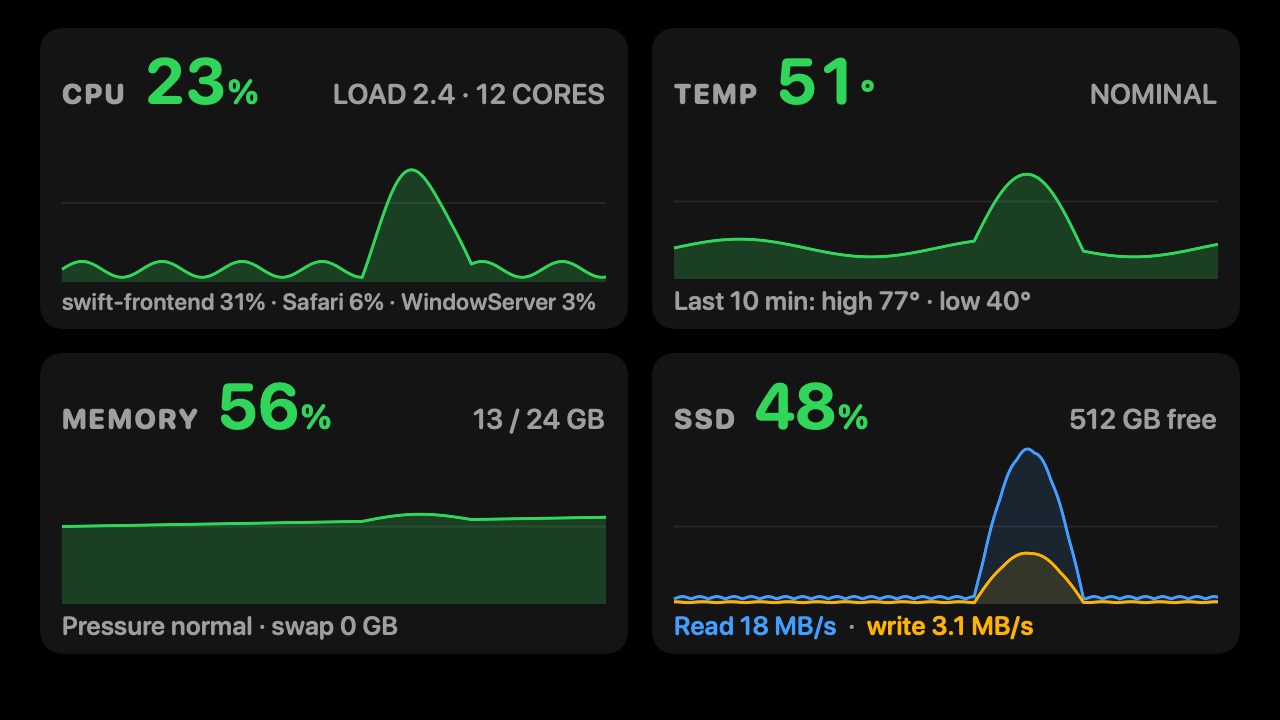
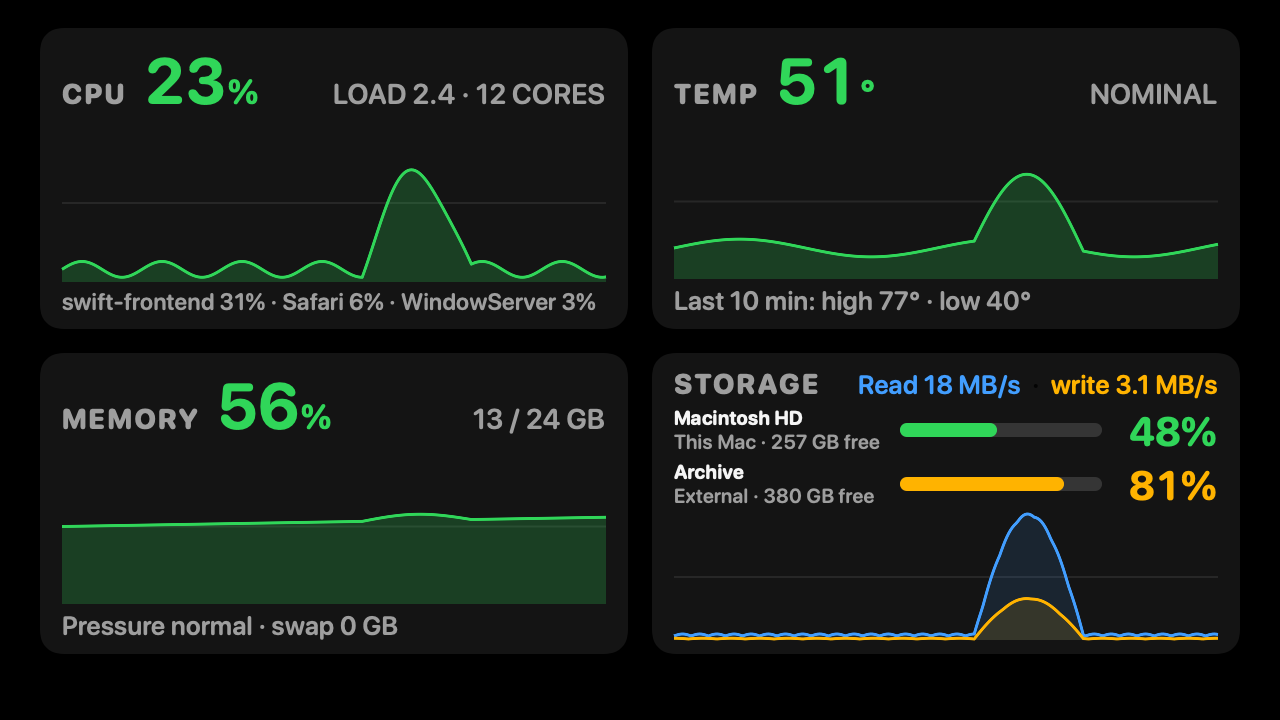
Storage instead of SSD: every volume, the Mac's own and attached
The clock page's meter shows how full the fullest volume is, over a thin bar per
volume, so how many drives there are and which is filling shows too. The system
page lists each volume Finder shows (the startup disk, other internal ones, then
attached drives; no disk images, network or hidden volumes) with how full it is and
what is free, above the disk throughput graph. Volumes are read once a minute and
whenever one is mounted or ejected.

Changed region(s): [[0.5, 0.5194, 0.9688, 0.9167]]

diff --git a/Sources/deskdash/SystemStats.swift b/Sources/deskdash/SystemStats.swift
@@ -1,4 +1,6 @@
+import AppKit
 import Darwin
+import DiskArbitration
 import Foundation
 import IOKit
 
@@ -15,11 +17,10 @@ struct SystemStats: Equatable, Sendable {
     var memoryUsed: Double  // bytes in active, wired and compressed pages
     var memoryTotal: Double
     var pressure: Pressure
-    var diskUsed: Double?  // share of the startup disk in use, 0...1, with purgeable space counted as free
+    var volumes: [VolumeUsage] = []  // the Mac's own volumes and the attached ones, the startup disk first
     var download: Double?  // bytes a second over the Ethernet and Wi-Fi interfaces
     var upload: Double?
     // For the system page:
-    var diskFree: Double? = nil  // bytes free on the startup disk, as Finder counts them
     var diskRead: Double? = nil  // bytes a second read from and written to the Mac's disks
     var diskWrite: Double? = nil
     var swapUsed: Double = 0  // bytes of swap in use
@@ -27,10 +28,29 @@ struct SystemStats: Equatable, Sendable {
 
     var memory: Double { memoryTotal > 0 ? memoryUsed / memoryTotal : 0 }
 
+    /// The volume closest to full: what the clock page's one storage meter shows.
+    var fullest: VolumeUsage? { volumes.max { $0.used < $1.used } }
+
     static let demo = SystemStats(cpu: 0.23, temperature: 51, thermal: .nominal, memoryUsed: 13.4 * 1_073_741_824,
-                                  memoryTotal: 24 * 1_073_741_824, pressure: .normal, diskUsed: 0.48,
-                                  download: 1_240_000, upload: 310_000, diskFree: 512_000_000_000,
+                                  memoryTotal: 24 * 1_073_741_824, pressure: .normal,
+                                  volumes: [VolumeUsage(name: "Macintosh HD", path: "/", isInternal: true,
+                                                        total: 494_000_000_000, free: 257_000_000_000),
+                                            VolumeUsage(name: "Archive", path: "/Volumes/Archive", isInternal: false,
+                                                        total: 2_000_000_000_000, free: 380_000_000_000)],
+                                  download: 1_240_000, upload: 310_000,
                                   diskRead: 18_400_000, diskWrite: 3_100_000, swapUsed: 0, load: 2.4)
+}
+
+/// One volume's space: free as Finder counts it, purgeable files included.
+struct VolumeUsage: Equatable, Sendable, Identifiable {
+    let name: String
+    let path: String
+    let isInternal: Bool  // the Mac's own, rather than attached
+    let total: Double  // bytes
+    let free: Double
+
+    var used: Double { total > 0 ? min(1, max(0, 1 - free / total)) : 0 }
+    var id: String { path }
 }
 
 /// The last 10 minutes of the Mac's load, a sample every 2 s, for the system page's graphs.
@@ -139,8 +159,9 @@ final class SystemStatsService {
     private var cpuTicks: [UInt32]?
     private var netBytes: [String: (rx: UInt64, tx: UInt64)] = [:]
     private var netSampled: TimeInterval?
-    private var diskUsed: Double?
-    private var diskFree: Double?
+    private var volumes: [VolumeUsage] = []
+    private var volumesTask: Task<Void, Never>?
+    private var mountObservers: [NSObjectProtocol] = []
     private var diskBytes: (read: UInt64, write: UInt64)?
     private let processes = ProcessSampler()
     private var processesBusy = false
@@ -170,10 +191,18 @@ final class SystemStatsService {
         _ = read()  // a baseline, so the first sample on the tick already has rates
         diskTask = Task {
             while !Task.isCancelled {
-                let disk = await Task.detached(priority: .utility) { Self.readDisk() }.value
-                diskUsed = disk?.used
-                diskFree = disk?.free
+                readVolumesNow()
                 try? await Task.sleep(for: .seconds(60))
+            }
+        }
+        // A drive plugged in or ejected shows at once rather than at the next minute.
+        if mountObservers.isEmpty {
+            let center = NSWorkspace.shared.notificationCenter
+            for name in [NSWorkspace.didMountNotification, NSWorkspace.didUnmountNotification,
+                         NSWorkspace.didRenameVolumeNotification] {
+                mountObservers.append(center.addObserver(forName: name, object: nil, queue: .main) { [weak self] _ in
+                    MainActor.assumeIsolated { self?.readVolumesNow() }
+                })
             }
         }
         temperatureTask = Task {
@@ -207,9 +236,7 @@ final class SystemStatsService {
     func prime() async {
         apply(dash.config.stats)
         guard enabled else { return }
-        let disk = Self.readDisk()
-        diskUsed = disk?.used
-        diskFree = disk?.free
+        volumes = Self.readVolumes()
         temperature = CPUTemperature.shared?.read()
         try? await Task.sleep(for: .seconds(1))
         sample()
@@ -266,8 +293,8 @@ final class SystemStatsService {
         return SystemStats(cpu: cpu, temperature: temperature, thermal: ProcessInfo.processInfo.thermalState,
                            memoryUsed: Double(pages) * pageSize,
                            memoryTotal: Double(ProcessInfo.processInfo.physicalMemory),
-                           pressure: SystemStats.Pressure(rawValue: level) ?? .normal, diskUsed: diskUsed,
-                           download: download, upload: upload, diskFree: diskFree, diskRead: diskRead,
+                           pressure: SystemStats.Pressure(rawValue: level) ?? .normal, volumes: volumes,
+                           download: download, upload: upload, diskRead: diskRead,
                            diskWrite: diskWrite, swapUsed: Double(swap.xsu_used), load: loads[0])
     }
 
@@ -329,14 +356,38 @@ final class SystemStatsService {
         return out
     }
 
-    /// Free space as Finder counts it, purgeable files included, which is why it goes through CacheDelete.
-    nonisolated private static func readDisk() -> (used: Double, free: Double)? {
-        guard let values = try? URL(fileURLWithPath: "/").resourceValues(
-                  forKeys: [.volumeTotalCapacityKey, .volumeAvailableCapacityForImportantUsageKey]),
-              let total = values.volumeTotalCapacity, total > 0,
-              let free = values.volumeAvailableCapacityForImportantUsage
-        else { return nil }
-        return (min(1, max(0, 1 - Double(free) / Double(total))), Double(free))
+    private func readVolumesNow() {
+        guard enabled, volumesTask == nil else { return }
+        volumesTask = Task {
+            volumes = await Task.detached(priority: .utility) { Self.readVolumes() }.value
+            volumesTask = nil
+        }
+    }
+
+    /// The volumes Finder shows: local, browsable, not hidden (Recovery, Preboot) and not disk images; the startup
+    /// disk first, then the Mac's own, then attached ones, by name. Free space as Finder counts it, purgeable files
+    /// included, which goes through CacheDelete (6-40 ms a volume), so it runs once a minute, off the main thread, and
+    /// when a volume is mounted or ejected.
+    nonisolated private static func readVolumes() -> [VolumeUsage] {
+        let keys: [URLResourceKey] = [.volumeLocalizedNameKey, .volumeIsInternalKey, .volumeIsLocalKey, .volumeIsBrowsableKey,
+                                      .volumeTotalCapacityKey, .volumeAvailableCapacityForImportantUsageKey,
+                                      .volumeAvailableCapacityKey]
+        let session = DASessionCreate(kCFAllocatorDefault)
+        var out: [VolumeUsage] = []
+        for url in FileManager.default.mountedVolumeURLs(includingResourceValuesForKeys: keys, options: [.skipHiddenVolumes]) ?? [] {
+            guard let v = try? url.resourceValues(forKeys: Set(keys)), v.volumeIsLocal == true, v.volumeIsBrowsable != false,
+                  let total = v.volumeTotalCapacity, total > 0
+            else { continue }
+            if let session, let disk = DADiskCreateFromVolumePath(kCFAllocatorDefault, session, url as CFURL),
+               let description = DADiskCopyDescription(disk) as? [String: Any],
+               let kind = description[kDADiskDescriptionDeviceProtocolKey as String] as? String,
+               kind == "Disk Image" || kind == "Virtual Interface" { continue }
+            let free = v.volumeAvailableCapacityForImportantUsage.map(Double.init) ?? Double(v.volumeAvailableCapacity ?? 0)
+            out.append(VolumeUsage(name: v.volumeLocalizedName ?? url.lastPathComponent, path: url.path,
+                                   isInternal: v.volumeIsInternal ?? (url.path == "/"), total: Double(total), free: free))
+        }
+        func rank(_ v: VolumeUsage) -> Int { v.path == "/" ? 0 : v.isInternal ? 1 : 2 }
+        return out.sorted { (rank($0), $0.name) < (rank($1), $1.name) }
     }
 
     /// Bytes read and written since boot by every disk (the IOBlockStorageDriver statistics Activity Monitor's Disk tab

diff --git a/Sources/deskdash/Views.swift b/Sources/deskdash/Views.swift
@@ -249,7 +249,7 @@ struct StatsRow: View {
 
     var body: some View {
         let cpu = stats.cpu.map { ($0 * 100).rounded() / 100 }  // the color follows the number shown
-        let disk = stats.diskUsed.map { ($0 * 100).rounded() / 100 }
+        let disk = stats.fullest.map { ($0.used * 100).rounded() / 100 }  // the volume closest to full
         HStack(alignment: .center, spacing: 0) {
             StatMeter(label: "CPU", value: cpu.map(Fmt.wholePercent), unit: "%", fraction: cpu,
                       color: Theme.quality(cpu, fair: 0.7, poor: 0.9))
@@ -262,8 +262,7 @@ struct StatsRow: View {
             StatMeter(label: "RAM", value: Fmt.gigabytes(stats.memoryUsed), unit: "GB", fraction: stats.memory,
                       color: Theme.color(stats.pressure))
             Spacer(minLength: 20)
-            StatMeter(label: "SSD", value: disk.map(Fmt.wholePercent), unit: "%", fraction: disk,
-                      color: Theme.quality(disk, fair: 0.8, poor: 0.9))
+            StorageMeter(volumes: stats.volumes, fullest: disk)
             Spacer(minLength: 20)
             NetworkRates(download: stats.download, upload: stats.upload)
         }
@@ -1027,16 +1026,7 @@ struct SystemPage: View {
                             footer: Text(L10n.f("Pressure %@ · swap %@", L10n.t(Self.pressure(s.pressure)), Fmt.size(s.swapUsed)))) {
                     StatChart(series: [h.memory], range: 0...1, colors: [Theme.color(s.pressure)])
                 }
-                SystemPanel(label: "SSD", value: s.diskUsed.map(Fmt.wholePercent) ?? "–", unit: "%",
-                            color: Theme.quality(s.diskUsed.map { $0 * 100 }, fair: 80, poor: 90),
-                            info: s.diskFree.map { L10n.f("%@ free", Fmt.size($0)) } ?? "",
-                            // The words in their lines' colors, as the graph's legend.
-                            footer: SystemPage.legend(L10n.f("Read %@", Fmt.rate(s.diskRead ?? 0)),
-                                                      L10n.f("write %@", Fmt.rate(s.diskWrite ?? 0)))) {
-                    // Throughput, which moves, rather than space used, which hardly does. Read in blue, write in amber.
-                    let peak = max(4_000_000, (h.diskRead + h.diskWrite).compactMap { $0 }.max() ?? 0)
-                    StatChart(series: [h.diskRead, h.diskWrite], range: 0...peak, colors: [Theme.working, Theme.waiting])
-                }
+                StoragePanel(volumes: s.volumes, history: h, read: s.diskRead, write: s.diskWrite)
             }
         }
         .padding(.horizontal, 40)
@@ -1065,6 +1055,127 @@ struct SystemPage: View {
         case .warning: "warning"
         case .critical: "critical"
         }
+    }
+}
+
+/// The clock page's storage meter: the fullest volume's figure, as the other meters show theirs, over a thin bar per
+/// volume (up to four), each in its own fullness's color, so how many drives there are, and which is filling, shows too.
+struct StorageMeter: View {
+    let volumes: [VolumeUsage]
+    let fullest: Double?
+
+    var body: some View {
+        let color = Theme.quality(fullest, fair: 0.8, poor: 0.9)
+        let bars = Array(volumes.prefix(4))
+        VStack(alignment: .leading, spacing: 10) {
+            HStack(alignment: .firstTextBaseline, spacing: 0) {
+                Text(L10n.t("STORAGE"))
+                    .font(Theme.font(28, .heavy))
+                    .tracking(2)
+                    .foregroundStyle(Theme.secondary)
+                    .fixedSize()
+                Spacer(minLength: 8)
+                Text(fullest.map(Fmt.wholePercent) ?? "–")
+                    .font(Theme.font(46, .bold))
+                    .monospacedDigit()
+                    .foregroundStyle(fullest == nil ? Theme.faint : color)
+                if fullest != nil {
+                    Text("%").font(Theme.font(30, .bold)).foregroundStyle(color).padding(.leading, 2)
+                }
+            }
+            .lineLimit(1)
+            .minimumScaleFactor(0.7)
+            GeometryReader { geo in
+                let gap: CGFloat = 4
+                let height = max(4, (geo.size.height - gap * CGFloat(max(0, bars.count - 1))) / CGFloat(max(1, bars.count)))
+                VStack(spacing: gap) {
+                    ForEach(bars) { v in
+                        let c = Theme.quality(v.used, fair: 0.8, poor: 0.9)
+                        ZStack(alignment: .leading) {
+                            RoundedRectangle(cornerRadius: min(4, height / 2)).fill(Color.white.opacity(0.12))
+                            RoundedRectangle(cornerRadius: min(4, height / 2)).fill(c)
+                                .frame(width: max(height, geo.size.width * v.used))
+                        }
+                        .frame(height: height)
+                    }
+                }
+            }
+            .frame(height: 26)
+        }
+        .frame(width: 205)
+    }
+}
+
+/// The system page's storage: a row per volume, the Mac's own and attached ones, each with how full it is in the meter
+/// colors and what is free, and under them every disk's reads and writes over the 10 minutes, which move where space
+/// used hardly does. Three rows fit: with more, the startup disk and the fullest of the rest show, and a count of the others.
+struct StoragePanel: View {
+    let volumes: [VolumeUsage]
+    let history: SystemHistory
+    let read: Double?
+    let write: Double?
+
+    var body: some View {
+        let shown = Self.pick(volumes)
+        let others = volumes.count - shown.count
+        VStack(alignment: .leading, spacing: 6) {
+            HStack(alignment: .firstTextBaseline) {
+                TokenCaption(text: L10n.t("STORAGE") + (others > 0 ? "  " + L10n.more(others) : ""))
+                Spacer(minLength: 12)
+                // The words in their lines' colors, as the graph's legend.
+                SystemPage.legend(L10n.f("Read %@", Fmt.rate(read ?? 0)), L10n.f("write %@", Fmt.rate(write ?? 0)))
+                    .font(Theme.font(26, .semibold))
+            }
+            ForEach(shown) { VolumeRow(volume: $0) }
+            let peak = max(4_000_000, (history.diskRead + history.diskWrite).compactMap { $0 }.max() ?? 0)
+            StatChart(series: [history.diskRead, history.diskWrite], range: 0...peak, colors: [Theme.working, Theme.waiting])
+                .frame(minHeight: 24, maxHeight: .infinity)
+        }
+        .lineLimit(1)
+        .padding(.horizontal, 22)
+        .padding(.vertical, 14)
+        .frame(maxWidth: .infinity, maxHeight: .infinity)
+        .background(Color(white: 0.08), in: RoundedRectangle(cornerRadius: 22))
+    }
+
+    /// Up to three, in their usual order: the startup disk, then the fullest of the others.
+    private static func pick(_ volumes: [VolumeUsage]) -> [VolumeUsage] {
+        guard volumes.count > 3 else { return volumes }
+        let kept = Set([volumes[0].id] + volumes.dropFirst().sorted { $0.used > $1.used }.prefix(2).map(\.id))
+        return volumes.filter { kept.contains($0.id) }
+    }
+}
+
+struct VolumeRow: View {
+    let volume: VolumeUsage
+
+    var body: some View {
+        let color = Theme.quality(volume.used * 100, fair: 80, poor: 90)
+        HStack(alignment: .center, spacing: 16) {
+            VStack(alignment: .leading, spacing: 0) {
+                Text(volume.name)
+                    .font(Theme.font(28, .bold))
+                    .foregroundStyle(Theme.text)
+                Text(L10n.t(volume.isInternal ? "This Mac" : "External") + " · " + L10n.f("%@ free", Fmt.size(volume.free)))
+                    .font(Theme.font(22, .semibold))
+                    .foregroundStyle(Theme.secondary)
+            }
+            .minimumScaleFactor(0.7)
+            .frame(width: 210, alignment: .leading)
+            GeometryReader { geo in
+                ZStack(alignment: .leading) {
+                    Capsule().fill(Color.white.opacity(0.14))
+                    Capsule().fill(color).frame(width: max(geo.size.height, geo.size.width * volume.used))
+                }
+            }
+            .frame(height: 14)
+            Text(Fmt.wholePercent(volume.used) + "%")
+                .font(Theme.font(40, .bold))
+                .monospacedDigit()
+                .foregroundStyle(color)
+                .frame(width: 100, alignment: .trailing)
+        }
+        .frame(height: 48)
     }
 }
 

diff --git a/Sources/deskdash/L10n.swift b/Sources/deskdash/L10n.swift
@@ -80,7 +80,8 @@ enum L10n {
         "Pressure %@ · swap %@": "壓力 %@ · 置換 %@",
         "%@ free": "可用 %@",
         "Read %@": "讀 %@", "write %@": "寫 %@",
-        "System (CPU, temperature, memory and SSD over 10 minutes)": "系統（最近 10 分鐘的 CPU、溫度、記憶體與 SSD）",
+        "System (CPU, temperature, memory and storage over 10 minutes)": "系統（最近 10 分鐘的 CPU、溫度、記憶體與儲存空間）",
+        "STORAGE": "儲存空間", "This Mac": "本機", "External": "外接",
         // Settings
         "Whenever it is not sleep hours": "休眠時間以外都保持（跟著平日／假日的休眠時間）",
         "Sleep (Dock Screen Off)": "休眠（關閉擴充座螢幕）",

diff --git a/Sources/deskdash/Settings.swift b/Sources/deskdash/Settings.swift
@@ -205,7 +205,7 @@ private struct GeneralSettings: View {
          PageOption(id: "markets", title: L10n.t("Markets")), PageOption(id: "agents", title: L10n.t("Agents")),
          PageOption(id: "limits", title: L10n.t("Limits (what is left of the Claude and Codex plans)")),
          PageOption(id: "tokens", title: L10n.t("Tokens (what the coding agents used)")),
-         PageOption(id: "system", title: L10n.t("System (CPU, temperature, memory and SSD over 10 minutes)"))]
+         PageOption(id: "system", title: L10n.t("System (CPU, temperature, memory and storage over 10 minutes)"))]
     }
 
     var body: some View {

diff --git a/README.md b/README.md
@@ -30,7 +30,7 @@ Changes apply at once and are saved to `config.json`, writing only what differs 
   - **CPU**: amber from 70%, red from 90%.
   - **Temp**: the CPU cores' average temperature, a segment per 10 °C (see [System stats](#system-stats)). Colored by macOS's thermal pressure (green nominal, amber fair, red serious or critical) rather than by degrees, because Apple silicon runs its cores past 90 °C under load by design. It's in °F when the weather is. Macs without the sensors, such as Intel ones, leave it out.
   - **RAM**: colored by macOS's memory pressure (green normal, amber warning, red critical) rather than by how full it is, because macOS keeps memory full on purpose.
-  - **SSD**: space used, counting purgeable files as free the way Finder does. Amber from 80%, red from 90%.
+  - **Storage**: how full the fullest of the Mac's volumes is, its own and attached ones alike, over a thin bar per volume (up to four), each in its own fullness's color, so how many there are, and which is filling, shows too. Purgeable files count as free, the way Finder counts them. Amber from 80%, red from 90%.
   - **Network**: download and upload rates over Ethernet and Wi-Fi.
 
   While Music or Spotify plays, a line above them shows the cover, the title and artist, and a thin progress bar. With neither row showing, the time grows back to 360 pt.
@@ -51,7 +51,7 @@ Changes apply at once and are saved to `config.json`, writing only what differs 
 - **Limits**: how much is left of your Claude and Codex plans' usage limits, a column per agent and a row per window, the 5-hour one and the week, all at one size so the same window sits side by side. A window a plan does not have (Codex Pro has only the week) keeps its place, marked; a row no agent has is left out. Each bar has a white tick where an even pace would leave it, so a bar that reaches past its tick has room to spare. The figures stay white while there is room. They turn amber when the window would run out before it resets at the pace so far ("RUNS OUT THU 18:00") or has under 20% left, and red under 10%. Otherwise the line under the bar says when it resets. A report older than 30 minutes says how old. This page appears once either agent has reported its limits (see [How plan limits work](#how-plan-limits-work)).
 - **Tokens**: the tokens your coding agents used on this Mac: Claude Code, Codex, Gemini CLI and Muse Code. Today's count is large, with each agent's share under it, and the last 7 and 30 days, all time, and your streak of days with any use sit beside it. Underneath are the last 26 weeks as a GitHub-style heatmap: a column per week, a row per weekday from your calendar's first day of the week, and GitHub's shades of green, from none to the busiest quarter of your days. Today is outlined. While this page shows, the count catches up every 10 s. It appears once there is any use in those weeks (see [How token counting works](#how-token-counting-works)).
 
-- **System**: the Mac's load over the last 10 minutes, as Activity Monitor graphs it, in four panels. **CPU**, with the load average beside the core count and the three busiest processes (one name's processes together, as a browser's helpers). **Temperature**, with macOS's thermal state and the 10 minutes' high and low. **Memory**, with what is used of how much, the memory pressure, and swap. **SSD**, its space used and free, and a graph of its reads (blue) and writes (amber), which move where space used hardly does. Each figure takes the clock page's meter colors. A sample lands every 2 s; the graphs start empty when deskdash starts. The busiest processes come from libproc (proc_pid_rusage), only while the page shows, about 2 ms every 4 s; disk throughput from the I/O registry's block-storage statistics, as Activity Monitor's Disk tab reads them.
+- **System**: the Mac's load over the last 10 minutes, as Activity Monitor graphs it, in four panels. **CPU**, with the load average beside the core count and the three busiest processes (one name's processes together, as a browser's helpers). **Temperature**, with macOS's thermal state and the 10 minutes' high and low. **Memory**, with what is used of how much, the memory pressure, and swap. **Storage**, a row per volume as Finder shows them (the startup disk, the Mac's other volumes, then attached drives; disk images, network volumes and hidden ones like Recovery left out), each with how full it is and what is free, and under them a graph of every disk's reads (blue) and writes (amber), which move where space used hardly does. Three rows fit; with more, the startup disk and the fullest two show, with a count of the rest. Plugging a drive in or ejecting one shows at once. Each figure takes the clock page's meter colors. A sample lands every 2 s; the graphs start empty when deskdash starts. The busiest processes come from libproc (proc_pid_rusage), only while the page shows, about 2 ms every 4 s; disk throughput from the I/O registry's block-storage statistics, as Activity Monitor's Disk tab reads them.
 
 **Alerts.** When a session starts waiting on you, the display jumps to the agents page for 20 s, and an amber frame blinks around every page until nothing is waiting. When a session finishes, a green frame blinks for 6 s and the agents page shows for 10 s. Both jumps can be turned off in Settings → Agents. When a plan's 5-hour or weekly window drops under 20% left, the limits page shows for 20 s, once per window until it resets.
 

diff --git a/CLAUDE.md b/CLAUDE.md
@@ -27,7 +27,7 @@ A full-screen dashboard for the Wokyis dock's 5" 1280×720 screen: clock and wea
 - `L10n.swift`: the menus' and alerts' words in English and Traditional Chinese (`language`). Wrap new menu titles and alert text in `L10n.t`, and add the Chinese to its table.
 - `PhotoLibrary.swift`: the Photos app's albums, through PhotoKit, for `photos.album`. Only deskdash.app asks for the library; snapshots and other bare-binary commands never touch it.
 - `Photos.swift`: the photos page's pictures. `PhotosService` lists `photos.album` or `photos.folder` every 5 minutes and decodes the next picture (and its blurred backdrop) off the main thread while the page is away.
-- `SystemStats.swift`: CPU, temperature, memory, SSD, and network for the clock page, sampled on every other tick (`SystemStatsService.sample`), with disk throughput, swap and the load average for the system page, the last 10 minutes of them (`SystemHistory`), and, only while that page shows, the busiest processes (`ProcessSampler`, libproc). `CPUTemperature` reads the CPU cores' sensors from the SMC.
+- `SystemStats.swift`: CPU, temperature, memory, SSD, and network for the clock page, sampled on every other tick (`SystemStatsService.sample`), the volumes Finder shows (`VolumeUsage`, read once a minute and on mount or eject), with disk throughput, swap and the load average for the system page, the last 10 minutes of them (`SystemHistory`), and, only while that page shows, the busiest processes (`ProcessSampler`, libproc). `CPUTemperature` reads the CPU cores' sensors from the SMC.
 - `NowPlaying.swift`: Music's and Spotify's distributed notifications (`NowPlayingService`, published on the tick by `flush`), the playhead estimate, and cover lookups (`CoverLookup`). `deskdash music` prints what it hears. `scripts/fake-track.swift` posts a made-up announcement.
 - `Views.swift`: everything drawn, on a fixed 1280×720 canvas scaled to the window.
 - `MQTT.swift` (a minimal MQTT 3.1 client), `Dyson.swift` (the purifier service and its readings), `DysonSetup.swift` (connecting the purifier: the steps Settings → Purifier and `deskdash dyson setup | test` share, including the one-time Dyson cloud login).
